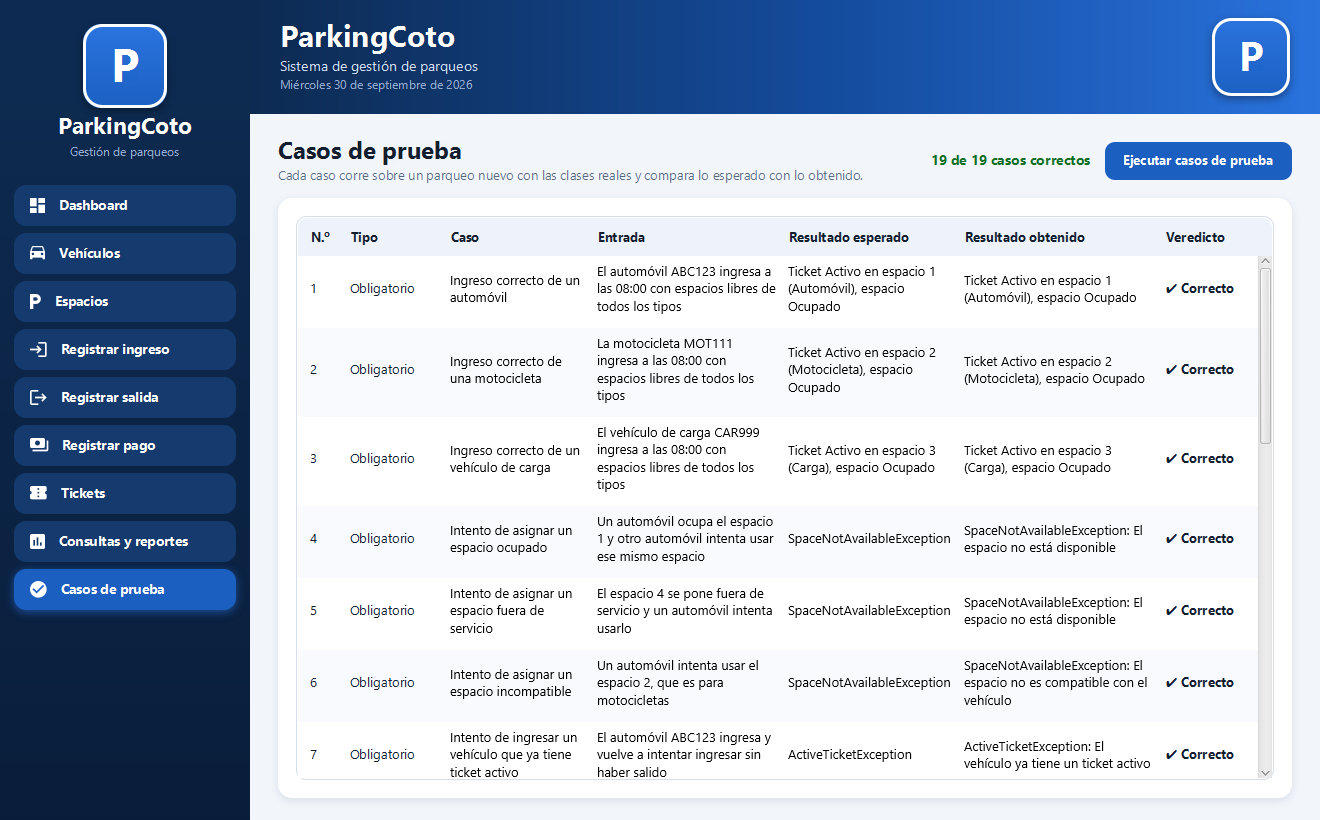
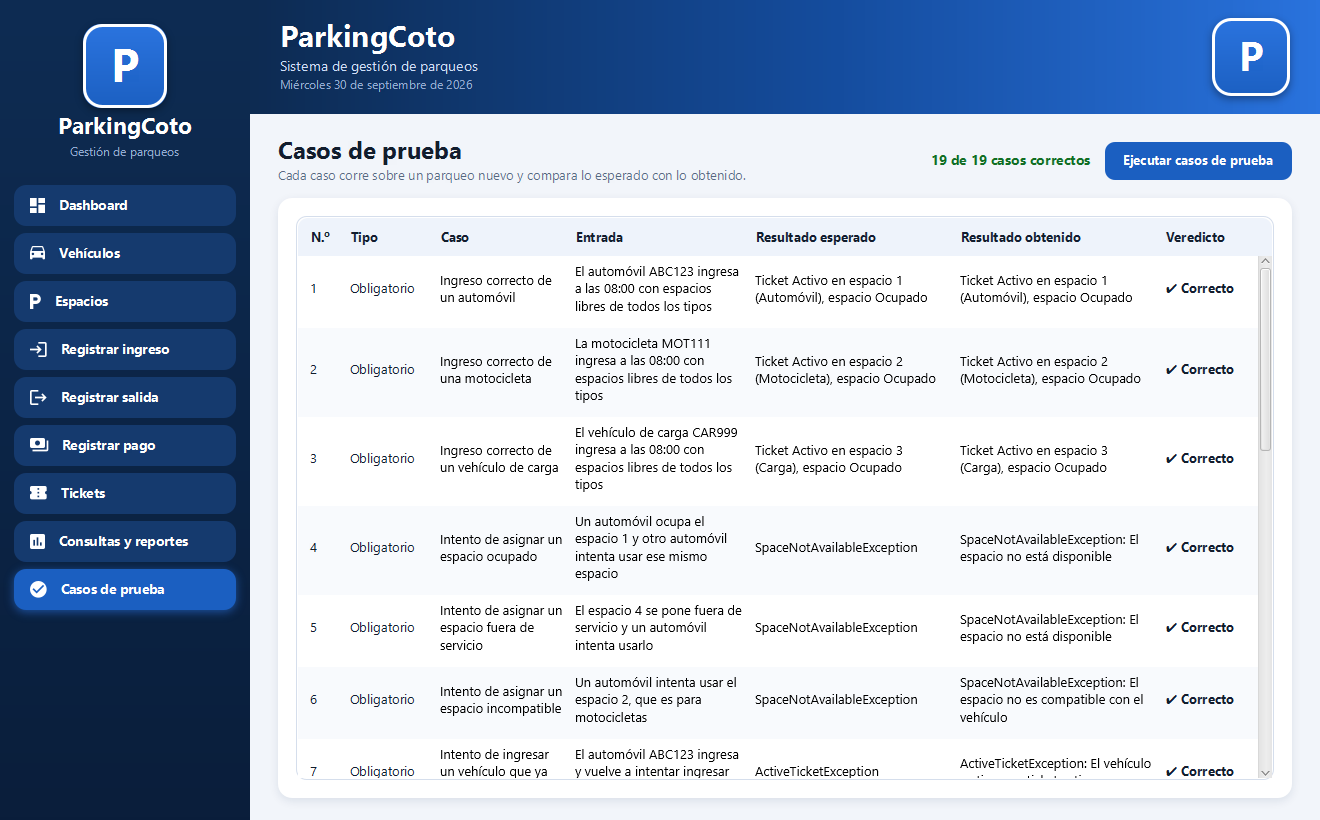
Add manual test guide
Step by step guide to test every screen by hand, with valid data, invalid data and odd cases, and the expected result of each step. All steps were run on JavaFX 8 and JavaFX 21.

diff --git a/docs/pruebas-manuales.md b/docs/pruebas-manuales.md
@@ -1,0 +1,128 @@
+# Pruebas manuales de Parking Coto
+
+Guía para probar todo el sistema a mano, en la interfaz. Incluye los casos del enunciado y otros que no pide, pero que dan consistencia al proyecto. Todos los pasos de esta guía se ejecutaron en un recorrido automático de la interfaz (77 revisiones, 0 fallas) en **Java 8 con JavaFX 8** y en **Java 21 con JavaFX 21**; los resultados esperados son los que se obtuvieron.
+
+Para abrir la aplicación: [README](../README.md#cómo-ejecutar).
+
+## 0. Preparación
+
+1. Abrir la aplicación y entrar a **Vehículos → Cargar datos de ejemplo**.
+2. Quedan 7 espacios (1 y 2 motocicleta; 3, 4 y 5 automóvil; 6 y 7 carga) y 7 vehículos (`ABC123`, `DEF456`, `GHI789` automóviles; `MOT111`, `MOT222` motocicletas; `CAR999`, `CAR888` carga).
+
+## 1. Casos del enunciado en un clic
+
+**Casos de prueba → Ejecutar casos de prueba**: debe decir **19 de 19 casos correctos** (los 15 obligatorios y 4 adicionales). El detalle está en [tabla-pruebas.md](tabla-pruebas.md).
+
+## 2. Flujo normal, de principio a fin
+
+| Paso | Qué hacer | Qué debe pasar |
+|---|---|---|
+| 1 | **Registrar ingreso**: vehículo `ABC123`, fecha 01/10/2026, hora 08:00 | Aviso verde. Ticket #1 en el espacio 3 (el primer espacio de automóvil libre) |
+| 2 | **Registrar salida**: `ABC123`, atajo **+61 min**, botón *Calcular monto a pagar* | Vista previa: 61 min, 2 horas cobradas, ₡1 800. El ticket sigue activo |
+| 3 | Mismo vehículo, *Registrar salida* | Ticket cerrado, ₡1 800, el espacio 3 vuelve a estar disponible. Dice que falta registrar el pago |
+| 4 | **Registrar pago**: elegir el ticket, tipo *Efectivo* | Pago #1. Ingresos totales: ₡1 800 |
+| 5 | **Dashboard** | Ingresos ₡1 800, 0 tickets activos, sin espacios ocupados |
+
+## 3. Datos inválidos y rechazos, pantalla por pantalla
+
+### Vehículos
+
+| Qué hacer | Qué debe pasar |
+|---|---|
+| Registrar con la placa `" xyz789 "` (con espacios y minúsculas) | Se guarda como `XYZ789` y el formulario se limpia |
+| Registrar otra vez la placa `xyz789` | `DuplicateRecordException`; no se duplica |
+| Dejar la placa vacía | `ParkingException` |
+| No elegir el tipo | "Datos incorrectos" |
+| Pulsar *Cargar datos de ejemplo* por segunda vez | `DuplicateRecordException`; no se duplican los datos |
+
+### Espacios
+
+| Qué hacer | Qué debe pasar |
+|---|---|
+| Número `abc` | "Datos incorrectos" |
+| Número `-4` | `ParkingException` |
+| Número `12`, tipo carga | Se registra |
+| Registrar otra vez el `12` | `DuplicateRecordException` |
+| *Fuera de servicio* sin elegir un espacio de la tabla | "Datos incorrectos" |
+| Elegir el espacio 12 y *Fuera de servicio* | La tabla muestra "Fuera de servicio" |
+| *Restaurar* y volver a pulsar *Restaurar* | La primera lo deja disponible; la segunda da `SpaceNotAvailableException` |
+| Poner fuera de servicio un espacio ocupado | `SpaceNotAvailableException` |
+
+### Registrar ingreso
+
+| Qué hacer | Qué debe pasar |
+|---|---|
+| No elegir vehículo | "Datos incorrectos" |
+| Fecha `2026-10-01` | Mensaje de formato `dd/MM/aaaa`; no se crea ticket |
+| Hora `25:99` o vacía | Mensaje de formato `HH:mm`; no se crea ticket |
+| Fecha vacía | "Seleccione la fecha" |
+| Fecha `1/10/2026` y hora `8:00` (sin ceros) | Se aceptan, igual que `01/10/2026` y `08:00` |
+| El mismo vehículo ingresa otra vez | `ActiveTicketException` |
+| Entrar `ABC123`, `DEF456` y `GHI789`, y después un cuarto automóvil | Ocupan los espacios 3, 4 y 5; el cuarto da `SpaceNotAvailableException` (no hay espacio libre) |
+| Marcar *Elegir el espacio manualmente* sin elegir uno | "Datos incorrectos" |
+| Elegir manualmente un espacio ocupado, uno fuera de servicio o uno de otro tipo | `SpaceNotAvailableException` y el vehículo no queda dentro |
+
+### Registrar salida
+
+| Qué hacer | Qué debe pasar |
+|---|---|
+| Un atajo (`+1 min`, etc.) sin elegir vehículo | "Datos incorrectos" |
+| Un atajo con un vehículo que no está dentro | Mensaje de que no tiene ticket activo |
+| *Registrar salida* de un vehículo que no está dentro | `RecordNotFoundException` |
+| Hora de salida anterior a la entrada (07:59 con entrada 08:00) | `ParkingException`; el ticket sigue activo y el espacio sigue ocupado |
+| *Calcular monto a pagar* | Muestra permanencia, horas y monto; no cierra el ticket |
+| Salir dos veces con el mismo vehículo | La segunda da `RecordNotFoundException` |
+
+Permanencias que conviene mostrar en vivo (entrada a las 08:00):
+
+| Vehículo | Atajo | Monto esperado |
+|---|---|---|
+| Automóvil | +1 min | ₡900 |
+| Automóvil | +60 min | ₡900 |
+| Automóvil | +61 min | ₡1 800 |
+| Automóvil | +11 h | ₡7 000 (tope diario) |
+| Motocicleta | +25 h | ₡4 500 (un día completo ₡4 000 más 1 hora ₡500) |
+| Carga | +2 h | ₡3 000 |
+| Carga | +60 min | ₡1 500 |
+
+### Registrar pago
+
+| Qué hacer | Qué debe pasar |
+|---|---|
+| Pagar un ticket que sigue activo | `InvalidTicketStateException`; no se registra el pago |
+| Pagar sin elegir ticket | "Datos incorrectos" |
+| Pagar los tickets cerrados con *Efectivo*, *Tarjeta* y *SINPE Móvil* | Cada pago sale de la lista; los ingresos suben por el monto del ticket |
+
+## 4. Consistencia entre pantallas
+
+Después de las salidas y pagos de las tablas anteriores (seis tickets pagados por ₡18 700 en total, y `ABC123` dentro otra vez):
+
+| Pantalla | Debe mostrar |
+|---|---|
+| Dashboard | 8 espacios, 1 ocupado, 7 disponibles, 1 ticket activo, ingresos ₡18 700 |
+| Tickets | 1 activo y 7 en el historial |
+| Consultas y reportes | 1 vehículo dentro, 7 espacios disponibles, 6 pagos |
+| Actividad reciente | Una línea por cada operación, aceptada (✔) o rechazada (✘) |
+
+Cambiar de pantalla con el menú lateral siempre muestra una sola pantalla y recarga sus datos.
+
+## 5. Pruebas automáticas que complementan estas
+
+- **Simulación aleatoria** (`ParkingLotInvariantsTest`): 150 parqueos distintos con 250 operaciones al azar cada uno (unas 37 500 en total: ingresos, salidas con horas en los límites, pagos, espacios fuera de servicio, registros repetidos). Después de **cada** operación comprueba que el estado sea coherente: espacio ocupado solo si tiene un ticket activo, un solo ticket activo por vehículo, ingresos igual a la suma de los pagos, y que el monto de cada ticket coincida con la regla del enunciado calculada de forma independiente. Para confirmar que detecta fallos se le inyectaron dos errores a propósito (tope desde 11 horas en vez de 10, y no liberar el espacio al cerrar) y los atrapó.
+- **`ParkingLotRulesTest`**: rechazos y límites de las reglas.
+- **`mvn test`**: 62 pruebas en total.
+
+## 6. Compatibilidad
+
+| Entorno | Resultado |
+|---|---|
+| Java 8 de Oracle (JavaFX 8 incluido) | Compila, 62 pruebas pasan, la ventana abre sin avisos |
+| Java 21 (JavaFX 21 por Maven) | Igual |
+| Ventana en su tamaño mínimo (1260 × 640) | Todo se ve completo |
+| Modo consola (`--console`, `--markdown`) en Java 8 y 21 | 19 de 19 casos correctos |
+
+## 7. Comportamiento que conviene saber explicar
+
+- Con el tope diario, **9 horas de un automóvil cuestan ₡8 100 y 10 horas cuestan ₡7 000**. Es el resultado de aplicar literalmente "para permanencias de 10 horas o más".
+- Toda fracción de hora cuenta como hora completa, incluso 1 hora y 1 segundo.
+- El espacio se libera al registrar la salida, antes del pago. Un ticket cerrado y sin pagar no cuenta como vehículo dentro del parqueo.
